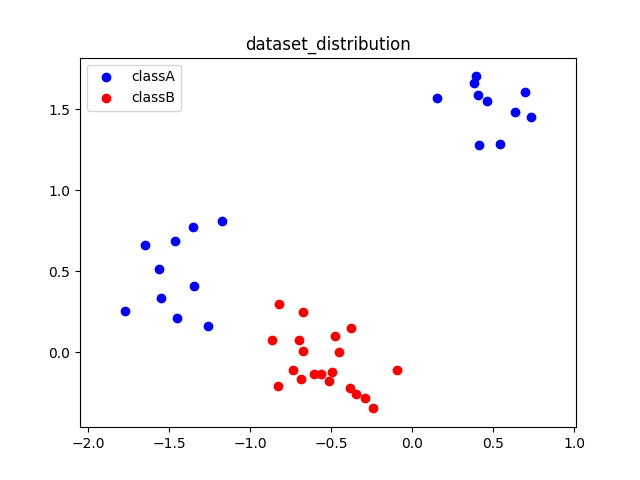
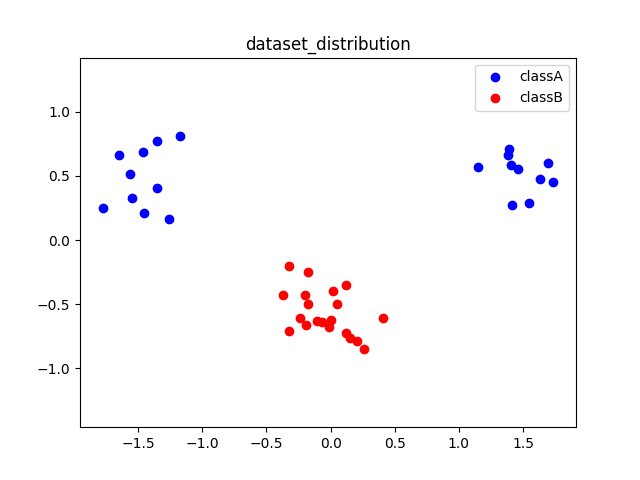
v1

diff --git a/Lab2/Lab2.py b/Lab2/Lab2.py
@@ -1,35 +1,39 @@
-import numpy as np
 import random
-from matplotlib import pyplot as plt
+import numpy as np
+from scipy.optimize import minimize
+import matplotlib.pyplot as plt
+from kernels import *
 
 # debug mode
 np.random.seed(100)
 
 # define the sizes
-
+# effective ones:A1_X_CENTER,A2_X_CENTER,B_X_CENTER
+#
 DATA_A_ROW = 10
 DATA_A_COL = 2
-DATA_A1_UP = 1.5
-DATA_A1_DOWN = 0.5
-DATA_A2_UP = 0.5
-DATA_A2_DOWN = -1.5
+A1_X_CENTER = 1.5
+A1_Y_CENTER = 0.5
+A2_Y_CENTER = 0.5
+A2_X_CENTER = -1.5
 
 DATA_B_ROW = 20
 DATA_B_COL = 2
-DATA_B_UP = 0.0
-DATA_B_DOWN = -0.5
+B_X_CENTER = 0.0
+B_Y_CENTER = -0.5
 
 STANDARD_DEVIATION = 0.2
-
+C = 1
+kernel = Linear_kernel
 # generate the data
 
 # randn generates an array of shape (d0, d1, ..., dn),
 # filled with random floats sampled from a univariate “normal” (Gaussian) distribution
 # of mean 0 and variance 1
 
-classA = np.concatenate((np.random.randn(DATA_A_ROW, DATA_A_COL) * STANDARD_DEVIATION + [DATA_A1_DOWN, DATA_A1_UP],
-                         np.random.randn(DATA_A_ROW, DATA_A_COL) * STANDARD_DEVIATION + [DATA_A2_DOWN, DATA_A2_UP]))
-classB = np.random.randn(DATA_B_ROW, DATA_B_COL) * STANDARD_DEVIATION + [DATA_B_DOWN, DATA_B_UP]
+classA = np.concatenate((np.random.randn(DATA_A_ROW, DATA_A_COL) * STANDARD_DEVIATION + [A1_X_CENTER, A1_Y_CENTER],
+                         np.random.randn(DATA_A_ROW, DATA_A_COL) * STANDARD_DEVIATION + [A2_X_CENTER, A2_Y_CENTER]))
+classB = np.random.randn(DATA_B_ROW, DATA_B_COL) * STANDARD_DEVIATION + [B_X_CENTER, B_Y_CENTER]
 inputs = np.concatenate((classA, classB))
 targets = np.concatenate((np.ones(classA.shape[0]), -np.ones(classB.shape[0])))
 N = inputs.shape[0]  # Number of rows (samples)
@@ -45,4 +49,90 @@ plt.legend()
 plt.title('dataset_distribution')
 plt.axis('equal')  # Force same scale on both axes
 plt.savefig('dataset_distribution.png')  # Save a copy in a file
-plt.show()  # Show the plot on the screen
+# plt.show()  # Show the plot on the screen
+
+# Pij = t_i t_j K(x_i,x_j)
+# A suitable kernel function
+# kernel was defined in the beginning
+P = np.ndarray((N, N))
+for pi in range(N):
+    for pj in range(N):
+        P[pi][pj] = targets[pi] * targets[pj] * kernel(inputs[pi], inputs[pj])
+
+
+# objective
+def objective(the_alpha):
+    sum1 = 0
+    sum2 = 0
+    for oi in range(N):
+        for oj in range(N):
+            sum1 += 0.5 * the_alpha[oi] * the_alpha[oj] * P[oi][oj]
+    sum2 += np.sum(the_alpha)
+    return sum1 - sum2
+
+
+# zerofun
+def zerofun(the_alpha):
+    return np.dot(the_alpha, targets)
+
+
+# call minimize
+print("number of samples:" + str(N))
+# C defined in the beginning
+start = np.zeros(N)
+B = [(0, C) for b in range(N)]
+XC = {'type': 'eq', 'fun': zerofun}
+ret = minimize(objective, start, bounds=B, constraints=XC)
+alpha = ret['x']
+if ret['success']:
+    print("found a solution\n")
+print("alpha:\n")
+print(alpha)
+
+# Extract the non-zero α values
+print("after find the non-zeros:")
+nonzero = []
+for i in range(N):
+    if alpha[i] >= 1e-5:
+        nonzero.append([alpha[i], inputs[i], targets[i]])
+    else:
+        alpha[i] = 0
+
+# nonzero structure [0]alpha_i [1]x_i [2]t_i
+print(nonzero)
+
+# calculate b
+sv_sample = 0
+for n in nonzero:
+    if n[0] < C:
+        sv_sample = n
+        break
+b = -1 * sv_sample[2]
+for i in range(N):
+    b += alpha[i] * targets[i] * kernel(sv_sample[1], inputs[i])
+
+print("calculate b : " + str(b) + "\n")
+
+
+# indicator function
+def indicator(new_sample):
+    indicate = -b
+    for sv in nonzero:
+        indicate += sv[0] * sv[2] * np.dot(sv[1], new_sample)
+    return indicate
+
+
+# plotting the decision boundary
+
+xgrid = np.linspace(-5, 5)
+ygrid = np.linspace(-4, 4)
+print(xgrid.shape)
+print(ygrid.shape)
+grid = np.ndarray((xgrid.shape[0], ygrid.shape[0]))
+for xi in range(xgrid.shape[0]):
+    for xj in range(ygrid.shape[0]):
+        grid[xi][xj] = indicator(np.array([xgrid[xi], ygrid[xj]]))
+
+plt.contour(xgrid, ygrid, grid, (-1.0, 0.0, 1.0), colors=('red', 'black', 'blue'), linewidths=(1, 3, 1))
+plt.savefig('SVM.png')
+plt.show()

diff --git a/Lab2/kernels.py b/Lab2/kernels.py
@@ -1,0 +1,13 @@
+import numpy as np
+
+
+def Linear_kernel(x, y):
+    return np.dot(np.transpose(x), y)
+
+
+def Polynomial_kernel(x, y, p=2):
+    return np.power(np.dot(np.transpose(x), y) + 1, p)
+
+
+def RBF_kernel(x, y, sigma=1):
+    return np.exp(-1 * np.power(np.linalg.norm(np.subtract(x, y)), 2) / (2 * np.power(sigma, 2)))
